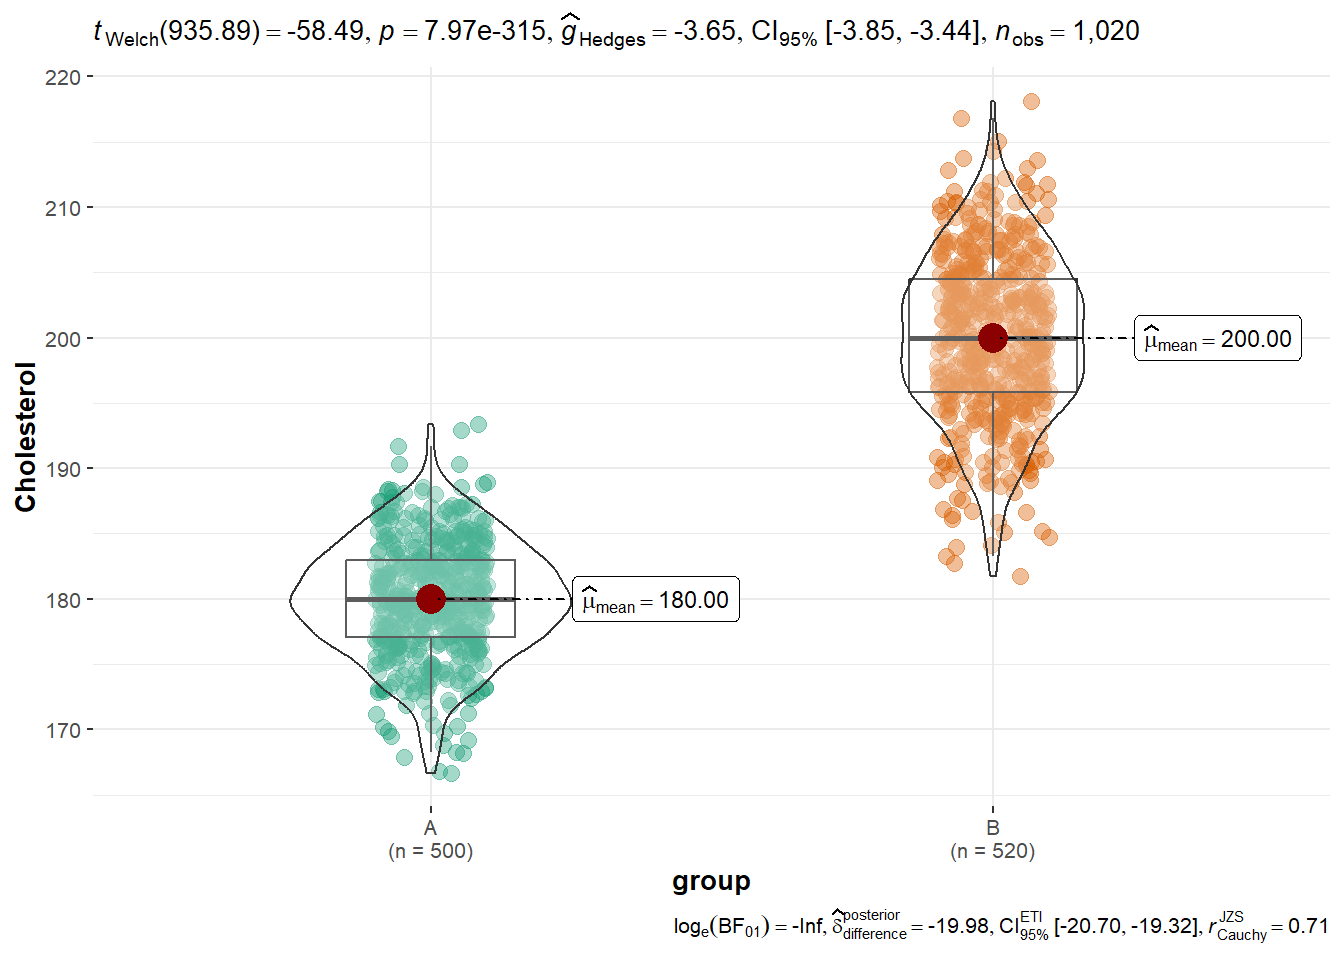
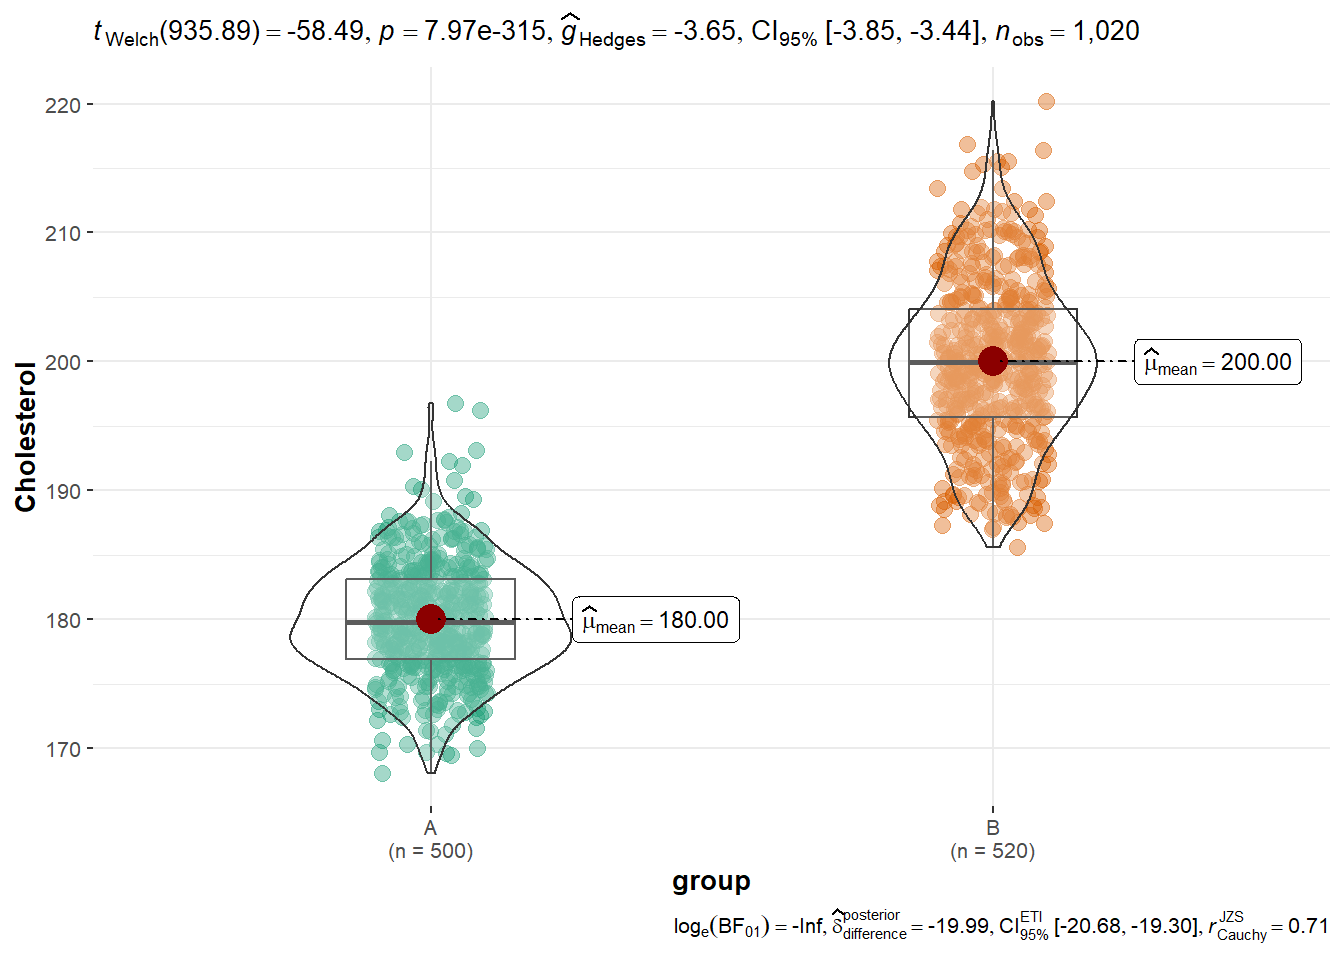
update

diff --git a/docs/posts/Tip04/index.html b/docs/posts/Tip04/index.html
@@ -262,7 +262,12 @@ div.csl-indent {
 <span id="cb3-13"><a href="#cb3-13" aria-hidden="true" tabindex="-1"></a><span class="fu">colnames</span>(data) <span class="ot">&lt;-</span> <span class="fu">c</span>(<span class="st">"Cholesterol"</span>,<span class="st">"group"</span>)</span>
 <span id="cb3-14"><a href="#cb3-14" aria-hidden="true" tabindex="-1"></a>data<span class="sc">$</span>Cholesterol <span class="ot">&lt;-</span> <span class="fu">as.numeric</span>(data<span class="sc">$</span>Cholesterol)</span>
 <span id="cb3-15"><a href="#cb3-15" aria-hidden="true" tabindex="-1"></a></span>
-<span id="cb3-16"><a href="#cb3-16" aria-hidden="true" tabindex="-1"></a>p1 <span class="ot">&lt;-</span><span class="fu">ggplot</span>(data, <span class="fu">aes</span>(<span class="at">x =</span> group, <span class="at">y =</span> Cholesterol)) <span class="sc">+</span> <span class="fu">geom_jitter</span>(<span class="at">alpha=</span><span class="fl">0.05</span>) </span></code><button title="Copy to Clipboard" class="code-copy-button"><i class="bi"></i></button></pre></div>
+<span id="cb3-16"><a href="#cb3-16" aria-hidden="true" tabindex="-1"></a>p1 <span class="ot">&lt;-</span><span class="fu">ggplot</span>(data, <span class="fu">aes</span>(<span class="at">x =</span> group, <span class="at">y =</span> Cholesterol)) <span class="sc">+</span> <span class="fu">geom_jitter</span>(<span class="at">alpha=</span><span class="fl">0.05</span>) </span>
+<span id="cb3-17"><a href="#cb3-17" aria-hidden="true" tabindex="-1"></a></span>
+<span id="cb3-18"><a href="#cb3-18" aria-hidden="true" tabindex="-1"></a>p1</span></code><button title="Copy to Clipboard" class="code-copy-button"><i class="bi"></i></button></pre></div>
+<div class="cell-output-display">
+<p><img src="index_files/figure-html/unnamed-chunk-1-1.png" class="img-fluid" width="672"></p>
+</div>
 </div>
 <p>a few observation on the code. First of all, we need to input the data in a <code>data.frame</code> otherwise ggplot will give us an error. the second observation is that since we put <code>chr</code> labels on our groups we needed to define Cholesterol <code>as.numeric</code> in order to avoid strange results. Try to comment the line <code>data$Cholesterol &lt;- as.numeric(data$Cholesterol)</code> and you can see by yourself what will happen. (hint: a “labelstorm!”)</p>
 <p>This very simple plot is one of my favorite. It let you see the raw data and immediately understand the distribution of your data and also avoid the pitfall of boxplot (see <span class="citation" data-cites="matejka2017">(<a href="#ref-matejka2017" role="doc-biblioref">Matejka and Fitzmaurice 2017</a>)</span>)</p>

diff --git a/docs/index.html b/docs/index.html
@@ -171,7 +171,7 @@ ul.task-list li input[type="checkbox"] {
 
 <div class="quarto-listing quarto-listing-container-default" id="listing-listing">
 <div class="list quarto-listing-default">
-<div class="quarto-post image-right" data-index="0" data-categories="R,tutorials,ggplot,visualization,recipes" data-listing-date-sort="1678489200000" data-listing-file-modified-sort="1678531110460" data-listing-reading-time-sort="1.345">
+<div class="quarto-post image-right" data-index="0" data-categories="R,tutorials,ggplot,visualization,recipes" data-listing-date-sort="1678489200000" data-listing-file-modified-sort="1678531170042" data-listing-reading-time-sort="1.345">
 <div class="body">
 <a href="./posts/Tip04/index.html">
 <h3 class="no-anchor listing-title">
